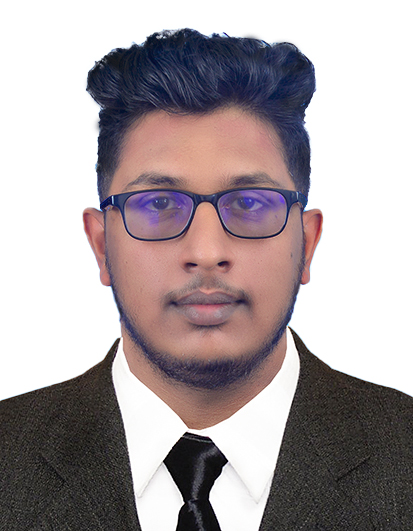
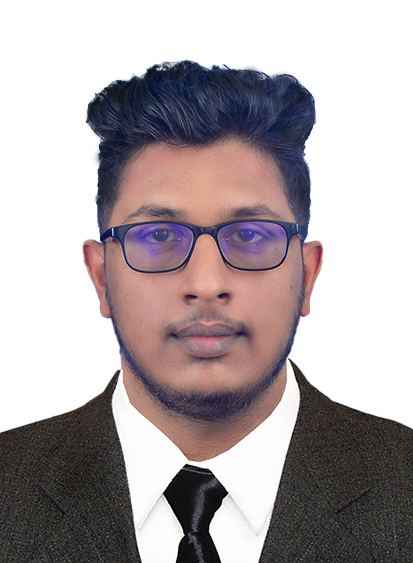
update some images

Changed region(s): [[0.0, 0.0301, 1.0, 0.9944], [0.4358, 0.904, 0.523, 0.9642]]

diff --git a/about.html b/about.html
@@ -230,7 +230,7 @@
                 </div>
                 <div class="member-card fade-in delay-3">
                     <div class="member-image">
-                        <img src="assets/images/team-4.jpg" alt="Miss. Nimthara Savindi">
+                        <img src="assets/images/Nimthara.png" alt="Miss. Nimthara Savindi">
                         <div class="social-links">
                             <a href="#"><i class="fab fa-linkedin-in"></i></a>
                             <a href="#"><i class="fab fa-twitter"></i></a>
